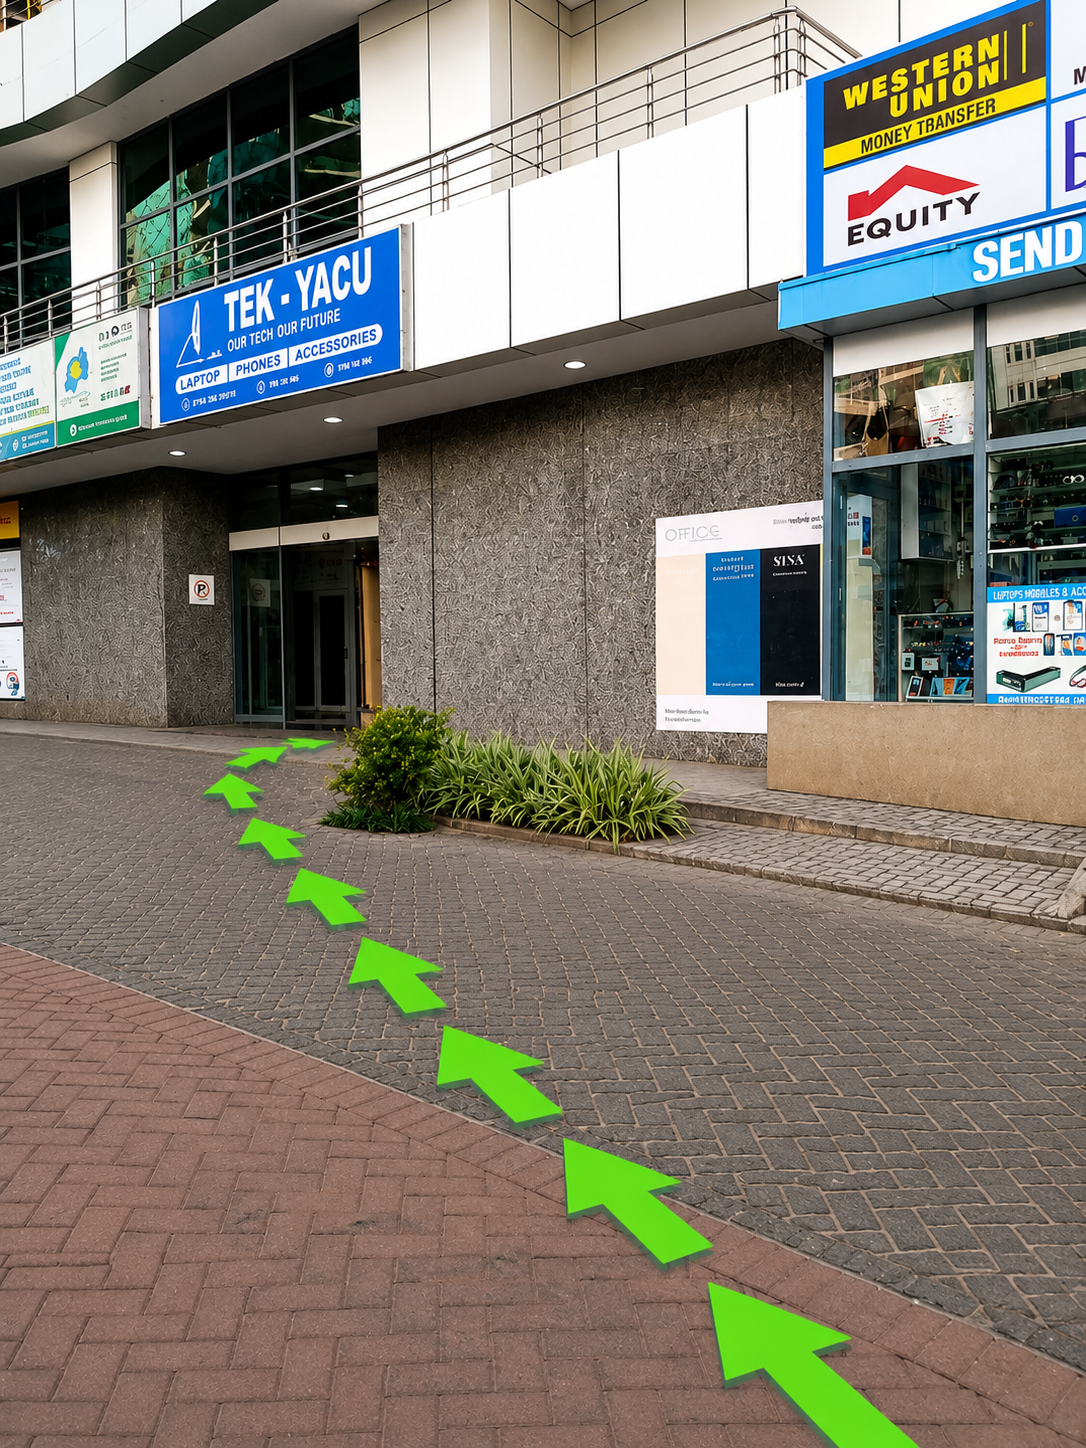
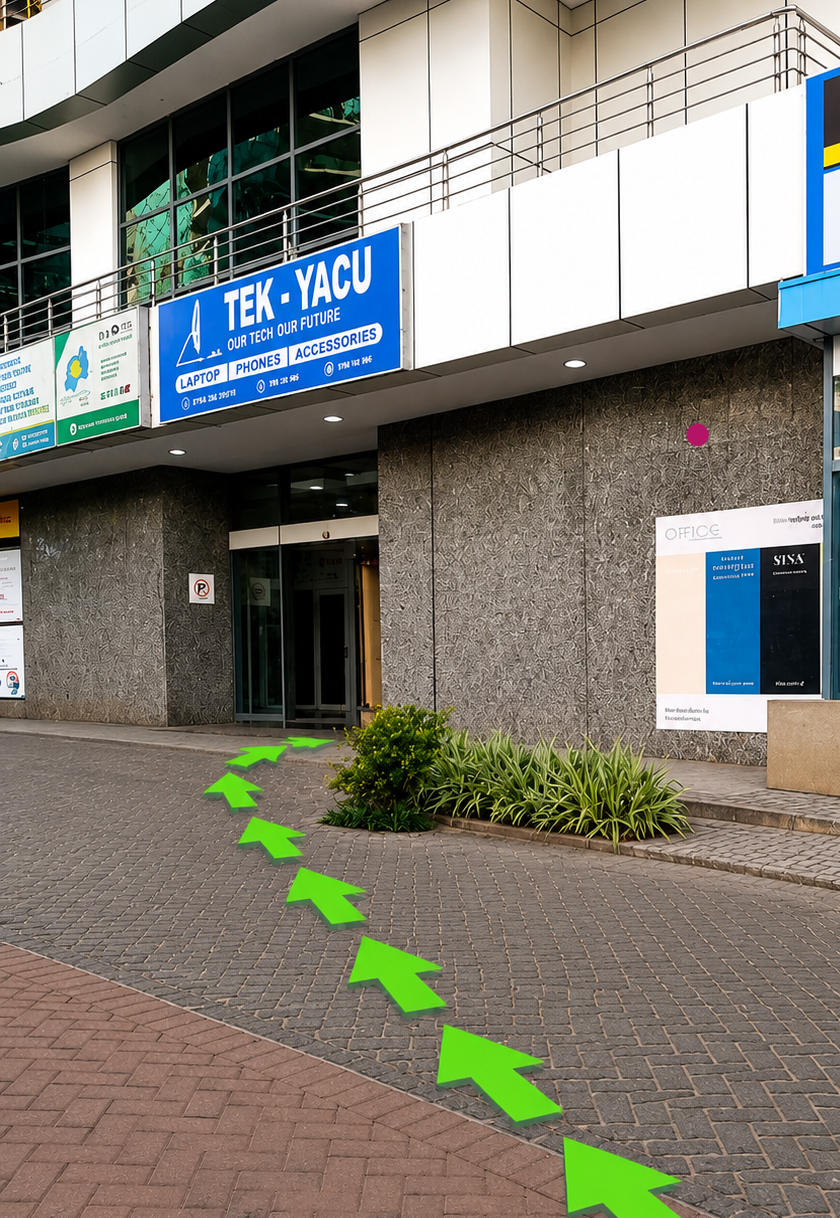
removing unneccessary image

diff --git a/src/app/data/products.ts b/src/app/data/products.ts
@@ -38,15 +38,6 @@ export const products: Product[] = [
     featured: true,
   },
   {
-    id: "phone-4",
-    name: "iPhone 14 Pro",
-    category: "Smartphones",
-    price: 1150000,
-    image: "https://images.unsplash.com/photo-1678652197138-c892e1f1fdd8?w=800&q=80",
-    description: "6.1-inch ProMotion display, A16 Bionic, Dynamic Island, 48MP main camera",
-    featured: true,
-  },
-  {
     id: "phone-5",
     name: "OnePlus 12",
     category: "Smartphones",
@@ -77,14 +68,6 @@ export const products: Product[] = [
     price: 750000,
     image: "https://images.unsplash.com/photo-1632661674596-df8be070a5c5?w=800&q=80",
     description: "6.1-inch Super Retina XDR, A15 Bionic, Dual camera system, Ceramic Shield",
-  },
-  {
-    id: "phone-9",
-    name: "Samsung Galaxy A54",
-    category: "Smartphones",
-    price: 420000,
-    image: "https://images.unsplash.com/photo-1706103750533-dd4c1a163b0f?w=800&q=80",
-    description: "6.4-inch Super AMOLED, Exynos 1380, 50MP OIS camera, IP67 water resistance",
   },
   {
     id: "phone-10",
@@ -282,14 +265,6 @@ export const products: Product[] = [
     description: "High-capacity portable charger, Fast charging, Universal compatibility, Dual USB ports",
   },
   {
-    id: "acc-4",
-    name: "Belkin 3-in-1 Wireless Charger",
-    category: "Accessories",
-    price: 120000,
-    image: "https://images.unsplash.com/photo-1591290619762-c588e5cbdc42?w=800&q=80",
-    description: "Charge iPhone, Apple Watch, and AirPods simultaneously, Fast wireless charging, Premium design",
-  },
-  {
     id: "acc-5",
     name: "Spigen Tough Armor Case",
     category: "Accessories",
@@ -304,14 +279,6 @@ export const products: Product[] = [
     price: 95000,
     image: "https://images.unsplash.com/photo-1609091839311-d5365f9ff1c5?w=800&q=80",
     description: "Wireless magnetic charging, Seamless iOS integration, Compact design, 15W charging",
-  },
-  {
-    id: "acc-7",
-    name: "Sony WH-1000XM5",
-    category: "Accessories",
-    price: 380000,
-    image: "https://images.unsplash.com/photo-1618366712010-f4ae9c647dcf?w=800&q=80",
-    description: "Industry-leading noise cancellation, 30-hour battery, Exceptional sound quality, Comfortable design",
   },
   {
     id: "acc-8",
@@ -344,14 +311,6 @@ export const products: Product[] = [
     price: 65000,
     image: "https://images.unsplash.com/photo-1625948515291-69613efd103f?w=800&q=80",
     description: "HDMI 4K output, USB 3.0 ports, SD/microSD readers, 100W Power Delivery, Aluminum build",
-  },
-  {
-    id: "acc-12",
-    name: "Moment Wide Lens for iPhone",
-    category: "Accessories",
-    price: 115000,
-    image: "https://images.unsplash.com/photo-1606499322519-6e0033577308?w=800&q=80",
-    description: "Professional mobile photography, 18mm wide angle, Cinema-quality glass, Phone case required",
   },
   {
     id: "acc-13",
@@ -402,14 +361,6 @@ export const products: Product[] = [
     description: "Vintage leather book design, Card slots, Removable shell, Stands in multiple angles",
   },
   {
-    id: "acc-19",
-    name: "RAVPower 65W GaN Charger",
-    category: "Accessories",
-    price: 52000,
-    image: "https://images.unsplash.com/photo-1591290619762-c588e5cbdc42?w=800&q=80",
-    description: "GaN technology, Dual USB-C ports, Compact size, Fast charge laptops & phones",
-  },
-  {
     id: "acc-20",
     name: "DJI OM 6 Smartphone Gimbal",
     category: "Accessories",
@@ -432,14 +383,6 @@ export const products: Product[] = [
     price: 32000,
     image: "https://images.unsplash.com/photo-1624823183493-ed5832f48f18?w=800&q=80",
     description: "3-meter ultra-strong cable, Weighted knot, 10,000+ bend lifespan, Premium materials",
-  },
-  {
-    id: "acc-23",
-    name: "Samsung Fast Wireless Charger Duo",
-    category: "Accessories",
-    price: 75000,
-    image: "https://images.unsplash.com/photo-1591290619762-c588e5cbdc42?w=800&q=80",
-    description: "Charge two devices, Fast Charge 2.0, LED indicator, Compatible with Galaxy & iPhone",
   },
   {
     id: "acc-24",

diff --git a/src/app/components/Footer.tsx b/src/app/components/Footer.tsx
@@ -22,15 +22,21 @@ export function Footer({ onNavigate }: FooterProps) {
   ];
 
   return (
-    <footer className="bg-[#0B0F19] border-t border-white/10">
+    <footer className="bg-[#000000] border-t border-white/10">
       <div className="max-w-7xl mx-auto px-4 sm:px-6 lg:px-8 py-12">
         <div className="grid grid-cols-1 md:grid-cols-3 gap-8 mb-8">
           <div>
             <div className="flex items-center gap-2 mb-4">
-              <div className="w-8 h-8 bg-gradient-to-br from-[#2563EB] to-[#1D4ED8] rounded-lg flex items-center justify-center">
-                <span className="text-white font-bold">T</span>
+              <div className="w-10 h-10 rounded-lg overflow-hidden flex items-center justify-center">
+                <img
+                  src="/logo.png"   // 👈 replace with your image path
+                  alt="TEK-YACU Logo"
+                  className="w-full h-full object-contain"
+                />
               </div>
-              <span className="text-xl font-bold text-white">TEK-YACU</span>
+              <span className="text-[15px] font-bold text-white font-sans">TEK-YACU
+                <span className="text-[6px] text-[#FFF]/60 block">OUR TECH OUR FUTURE</span>
+              </span>
             </div>
             <p className="text-[#9CA3AF] mb-4">
               Your trusted destination for premium smartphones, accessories, and speakers. We bring